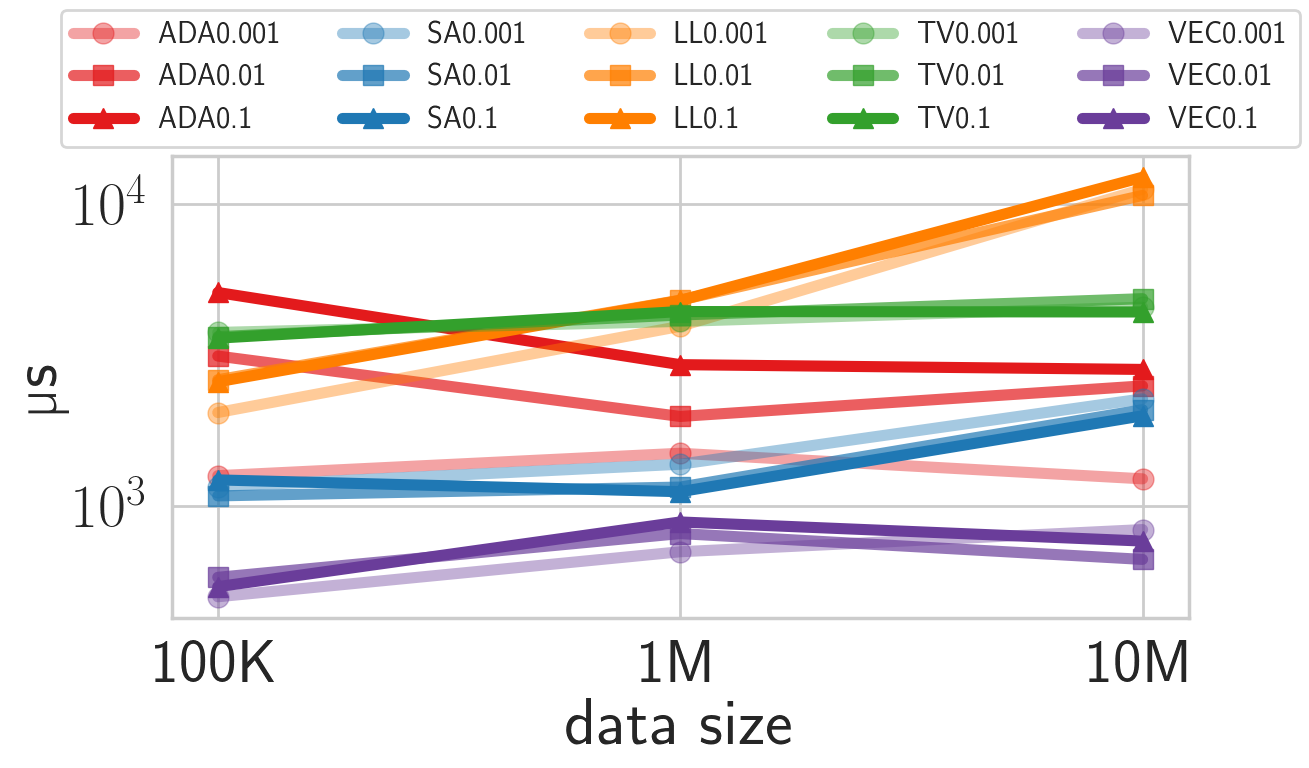
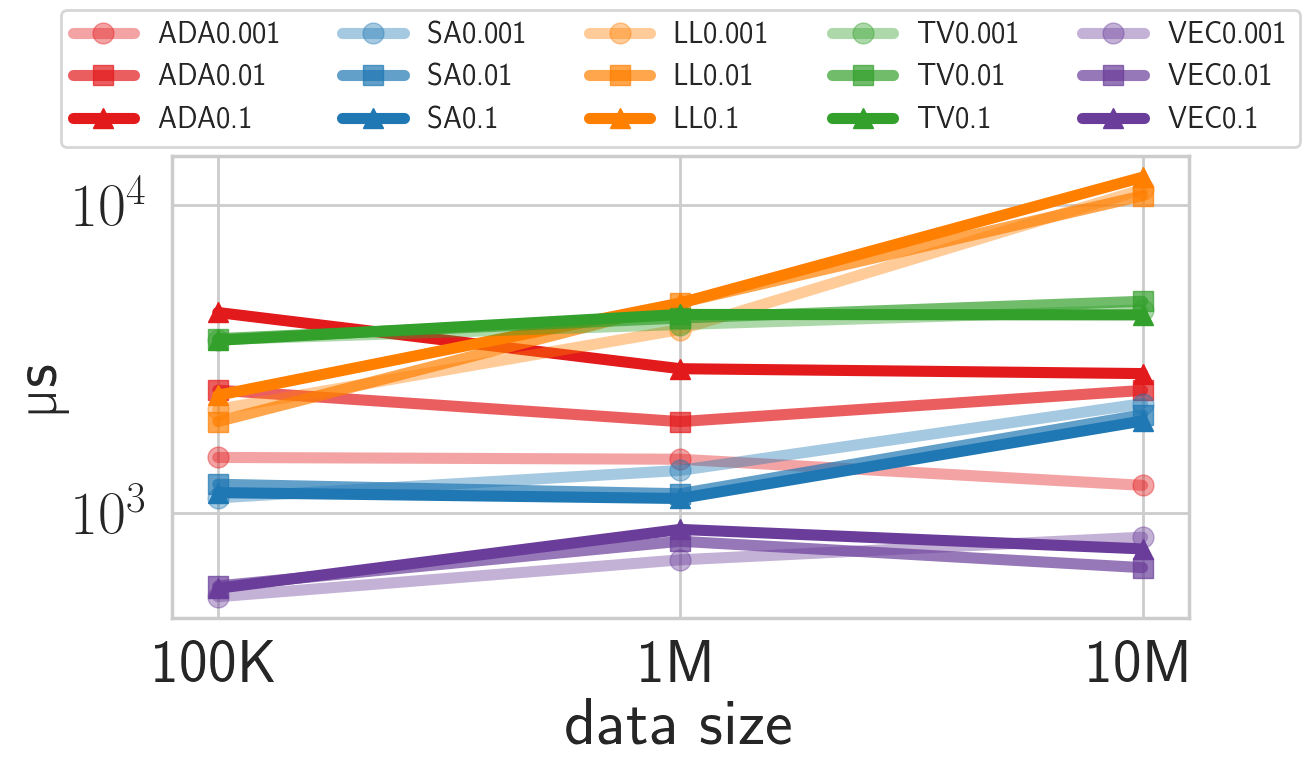
scalability 3

Changed region(s): [[0.0611, 0.25, 0.9167, 0.7812]]

diff --git a/Experiments/Scalability_3_repeat20/fig.py b/Experiments/Scalability_3_repeat20/fig.py
@@ -80,7 +80,7 @@ def read_files(op):
             time10M[float(items[0])].append(float(items[i+1]))
 
     # 100K
-    input_folder = r"../Scalability_3_repeat5/100Krepeat5"
+    input_folder = r"100Krepeat20"
     # input_folder = r"100Krepeat20"
     input_path = input_folder + "/" + op + "/" + "avg.csv"
     input_file = open(input_path, "r")
@@ -98,7 +98,7 @@ def read_files(op):
             time100K[float(items[0])].append(float(items[i+1]))
 
 
-op = "pointquery"
+op = "swap"
 read_files(op)
 print(time1M, time100K, time10M)
 
